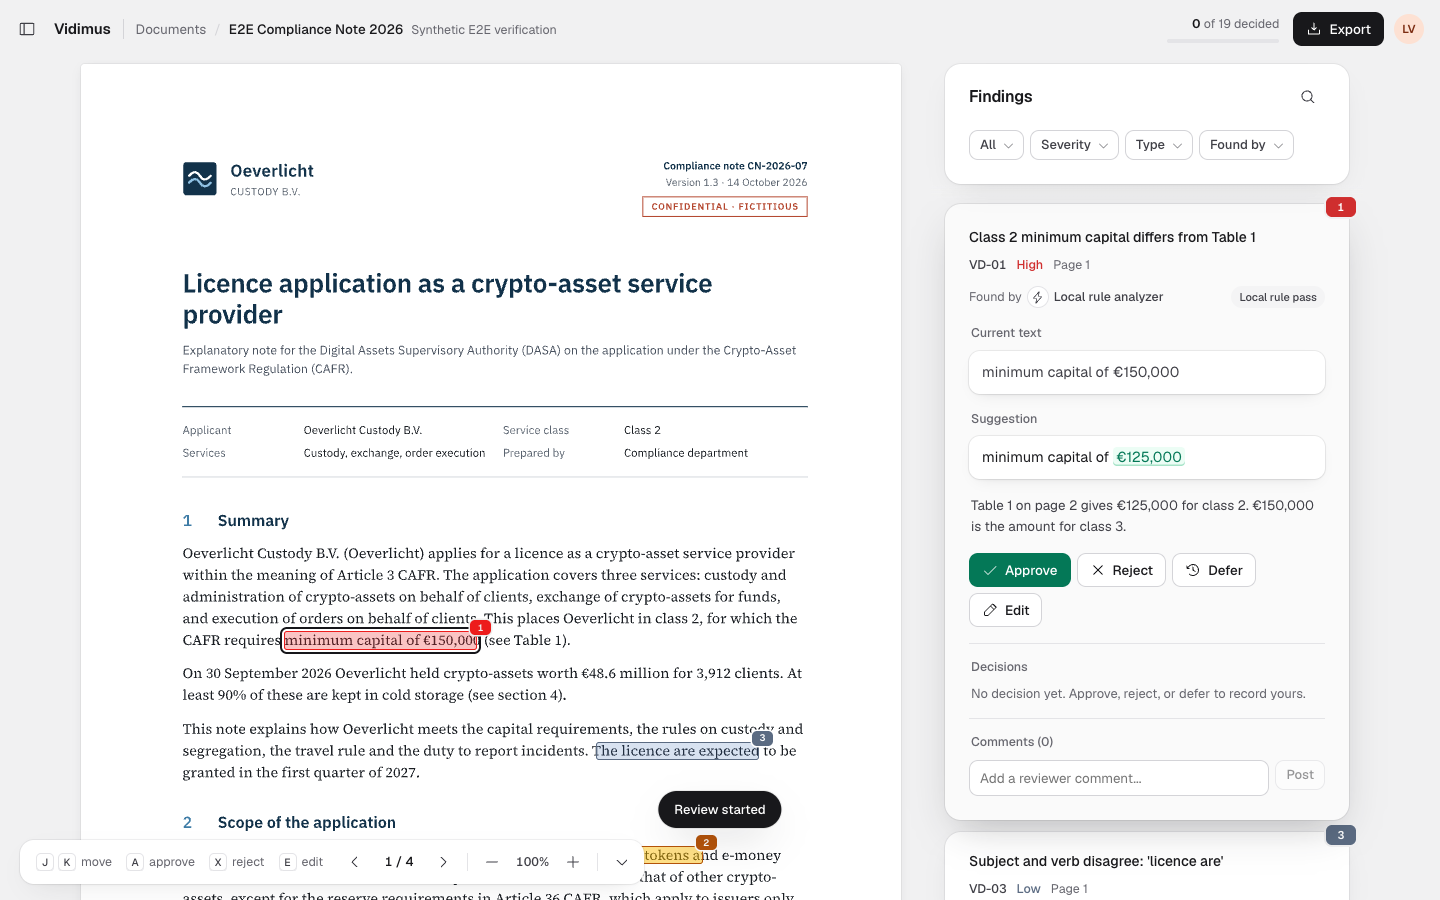
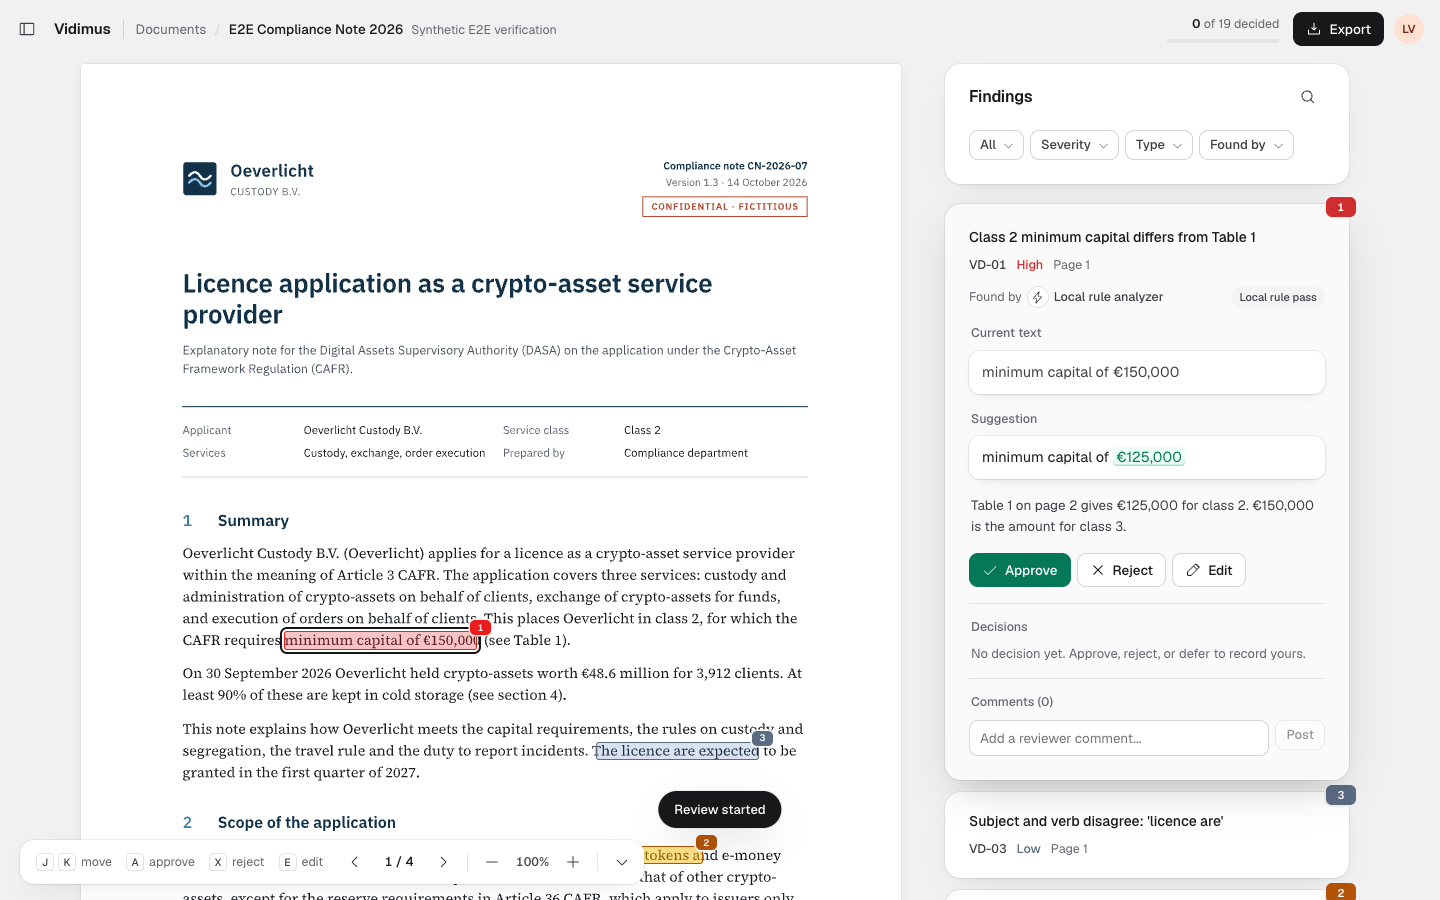
fix(web): remove defer button so finding actions stay on one line

Changed region(s): [[0.6562, 0.6533, 0.9688, 1.0], [0.8438, 0.6222, 0.875, 0.6533]]

diff --git a/web/src/components/FindingCardBody.tsx b/web/src/components/FindingCardBody.tsx
@@ -236,16 +236,6 @@ export function FindingCardBody({
             </button>
             <button
               type="button"
-              className="btn defer"
-              aria-pressed={myVerdict === 'deferred'}
-              title="Defer for later"
-              onClick={() => onDecide('deferred')}
-            >
-              <Icon name="clock-counter-clockwise" />
-              <span>{myVerdict === 'deferred' ? 'Deferred' : 'Defer'}</span>
-            </button>
-            <button
-              type="button"
               className="btn edit"
               aria-pressed={editing}
               title="Edit suggestion (E)"
